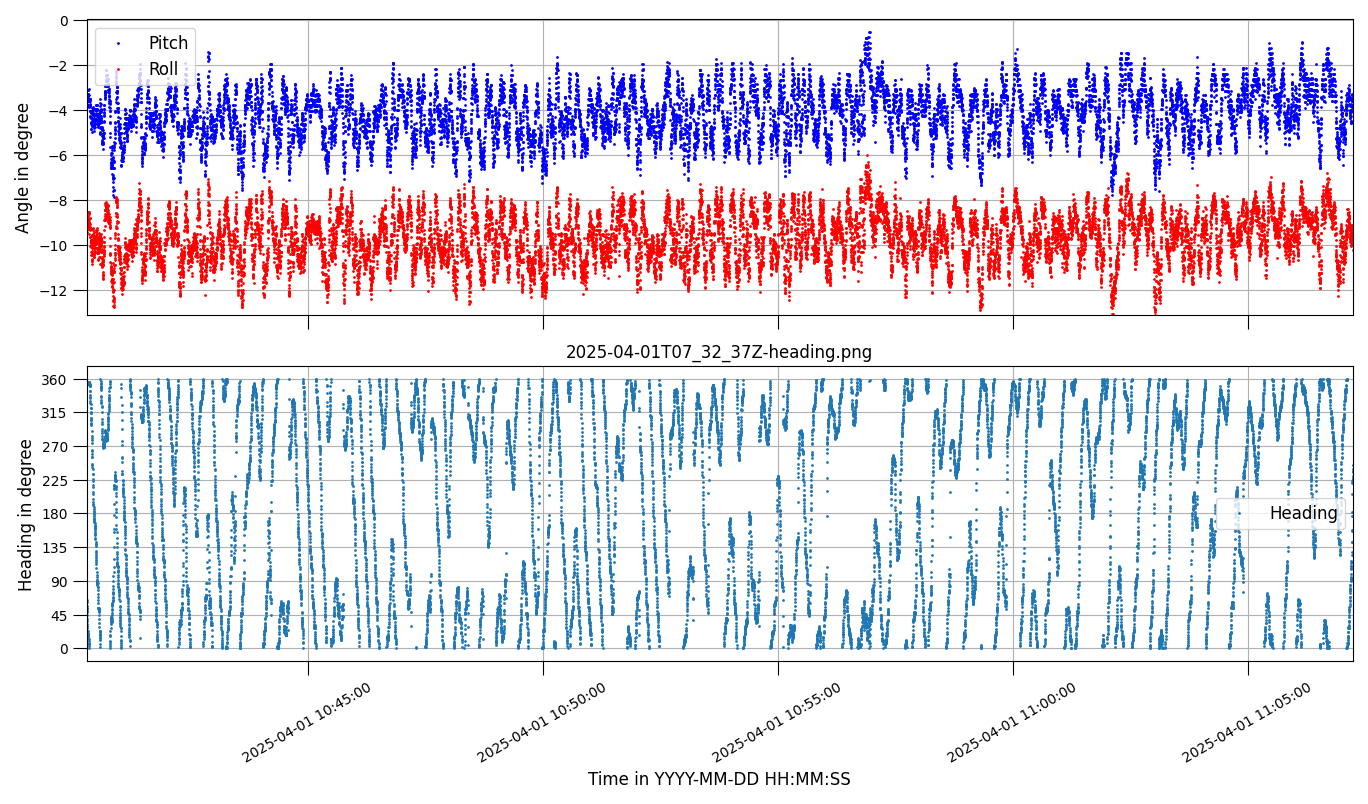
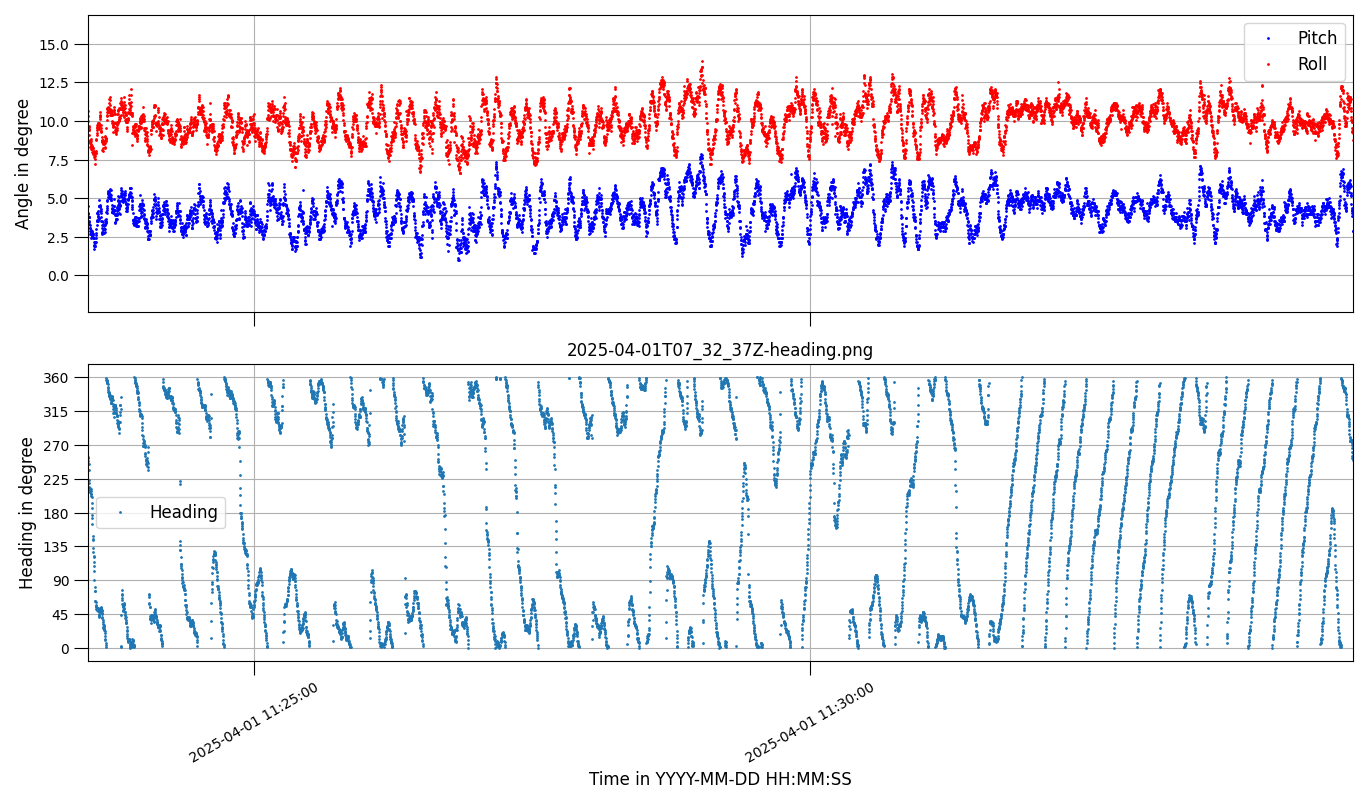
correct parameters to body frame, new plots

diff --git a/chapters/appendix.tex b/chapters/appendix.tex
@@ -6,18 +6,18 @@
          \makecell{$a^B$} & \makecell{1.02394} & \makecell{1.00341} & \makecell{1.03179} \\
          \makecell{$b^B$} & \makecell{1.08484} & \makecell{1.06898} & \makecell{1.07573} \\
          \makecell{$c^B$} & \makecell{1.18253} & \makecell{1.12627} & \makecell{1.16176} \\
-         \makecell{$x_0^B$} & \makecell{0.0344209} & \makecell{0.0131758} & \makecell{0.0269842} \\
-         \makecell{$y_0^B$} & \makecell{-0.22116} & \makecell{-0.212521} & \makecell{-0.219484} \\
+         \makecell{$x_0^B$} & \makecell{-0.0344209} & \makecell{-0.0131757} & \makecell{-0.0269844} \\
+         \makecell{$y_0^B$} & \makecell{0.22116} & \makecell{0.212521} & \makecell{0.219484} \\
          \makecell{$z_0^B$} & \makecell{-0.195463} & \makecell{-0.192554} & \makecell{-0.195859} \\
          \hline
          \makecell{$a^g$} & \makecell{0.969417} & \makecell{0.978286} & \makecell{0.97323} \\
          \makecell{$b^g$} & \makecell{0.959791} & \makecell{0.948732} & \makecell{0.957992} \\
          \makecell{$c^g$} & \makecell{0.964618} & \makecell{0.926156} & \makecell{0.953446} \\
-         \makecell{$x_0^g$} & \makecell{-0.00218403} & \makecell{0.00733717} & \makecell{0.00149607} \\
+         \makecell{$x_0^g$} & \makecell{-0.00218404} & \makecell{0.00733717} & \makecell{0.00149607} \\
          \makecell{$y_0^g$} & \makecell{-0.0149083} & \makecell{-0.0113024} & \makecell{-0.014287} \\
-         \makecell{$z_0^g$} & \makecell{0.0218019} & \makecell{0.0260466} & \makecell{0.0251443} \\
+         \makecell{$z_0^g$} & \makecell{-0.0218019} & \makecell{-0.0260466} & \makecell{-0.0251443} \\
     \end{tabular}
-    \caption{Coefficents determined from measurement on 11 April 2025.}
+    \caption{Coefficients determined from measurement on 11 April 2025.}
     \label{tab:app:coeff}
 \end{table}
 
@@ -27,10 +27,10 @@
              &   xa0  &   ya0  &   za0  &   aa   &   ba   & ca \\
          xa0 &  1     &        &        &        &        &    \\
          ya0 & -0.005 &  1     &        &        &        &    \\
-         za0 &  0.016 &  0.007 &  1     &        &        &    \\
-         aa  &  0.522 & -0.000 &  0.005 &  1     &        &    \\
-         ba  &  0.010 &  0.251 &  0.011 &  0.003 &  1     &    \\
-         ca  & -0.008 & -0.015 & -0.273 & -0.007 & -0.013 &  1 \\
+         za0 & -0.016 & -0.007 &  1     &        &        &    \\
+         aa  &  0.522 & -0.000 & -0.005 &  1     &        &    \\
+         ba  &  0.010 &  0.251 & -0.011 &  0.003 &  1     &    \\
+         ca  & -0.008 & -0.015 &  0.273 & -0.007 & -0.013 &  1 \\
     \end{tabular}
     \caption{Correlation matrix of Phase II Acc}
 \end{table}
@@ -41,10 +41,10 @@
              &   xm0  & ym0    &   zm0  &   am   &   bm   & cm \\
          xm0 &  1     &        &        &        &        &    \\
          ym0 &  0.096 &  1     &        &        &        &    \\
-         zm0 &  0.114 &  0.013 &  1     &        &        &    \\
-         am  & -0.457 & -0.055 & -0.105 &  1     &        &    \\
-         bm  &  0.180 & -0.212 & -0.045 & -0.212 &  1     &    \\
-         cm  &  0.229 &  0.065 &  0.282 & -0.252 & -0.093 & 1  \\
+         zm0 & -0.114 & -0.013 &  1     &        &        &    \\
+         am  &  0.457 &  0.055 & -0.105 &  1     &        &    \\
+         bm  & -0.180 &  0.212 & -0.045 & -0.212 &  1     &    \\
+         cm  & -0.229 & -0.065 &  0.282 & -0.252 & -0.093 & 1  \\
     \end{tabular}
     \caption{Correlation matrix of Phase II Mag}
 \end{table}
@@ -55,10 +55,10 @@
              &   xa0  &   ya0  &   za0  &   aa   &   ba   & ca \\
          xa0 &  1     &        &        &        &        &    \\
          ya0 &  0.030 &  1     &        &        &        &    \\
-         za0 &  0.093 &  0.017 &  1     &        &        &    \\
-         aa  & -0.246 & -0.004 &  0.047 &  1     &        &    \\
-         ba  & -0.021 & -0.034 & -0.055 & -0.229 &  1     &    \\
-         ca  & -0.017 &  0.053 &  0.280 & -0.098 & -0.195 &  1 \\
+         za0 & -0.093 & -0.017 &  1     &        &        &    \\
+         aa  & -0.246 & -0.004 & -0.047 &  1     &        &    \\
+         ba  & -0.021 & -0.034 &  0.055 & -0.229 &  1     &    \\
+         ca  & -0.017 &  0.053 & -0.280 & -0.098 & -0.195 &  1 \\
     \end{tabular}
     \caption{Correlation matrix of Phase III Acc}
     \label{tab:my_label}
@@ -70,10 +70,10 @@
              &   xm0  & ym0    &   zm0  &   am   &   bm   & cm \\
          xm0 &  1     &        &        &        &        &    \\
          ym0 &  0.053 &  1     &        &        &        &    \\
-         zm0 &  0.006 &  0.009 &  1     &        &        &    \\
-         am  &  0.266 &  0.015 & -0.033 &  1     &        &    \\
-         bm  & -0.013 & -0.073 &  0.014 & -0.234 &  1     &    \\
-         cm  & -0.017 & -0.046 & -0.222 & -0.185 & -0.203 & 1  \\
+         zm0 & -0.006 & -0.009 &  1     &        &        &    \\
+         am  & -0.266 & -0.015 & -0.033 &  1     &        &    \\
+         bm  &  0.013 &  0.073 &  0.014 & -0.234 &  1     &    \\
+         cm  &  0.017 &  0.046 & -0.222 & -0.185 & -0.203 & 1  \\
     \end{tabular}
     \caption{Correlation matrix of Phase III Mag}
 \end{table}
@@ -84,10 +84,10 @@
              &   xa0  &   ya0  &   za0  &   aa   &   ba   & ca \\
          xa0 &  1     &        &        &        &        &    \\
          ya0 & -0.001 &  1     &        &        &        &    \\
-         za0 &  0.067 &  0.004 &  1     &        &        &    \\
-         aa  &  0.283 & -0.008 &  0.049 &  1     &        &    \\
-         ba  & -0.029 &  0.206 &  0.012 & -0.058 &  1     &    \\
-         ca  & -0.053 & -0.008 & -0.127 & -0.065 & -0.046 &  1 \\
+         za0 & -0.067 & -0.004 &  1     &        &        &    \\
+         aa  &  0.283 & -0.008 & -0.049 &  1     &        &    \\
+         ba  & -0.029 &  0.206 & -0.012 & -0.058 &  1     &    \\
+         ca  & -0.053 & -0.008 &  0.127 & -0.065 & -0.046 &  1 \\
     \end{tabular}
     \caption{Correlation matrix of Phases II+III Acc}
 \end{table}
@@ -98,10 +98,10 @@
              &   xm0  & ym0    &   zm0  &   am   &   bm   & cm \\
          xm0 &  1     &        &        &        &        &    \\
          ym0 &  0.074 &  1     &        &        &        &    \\
-         zm0 &  0.057 &  0.002 &  1     &        &        &    \\
-         am  & -0.229 & -0.022 & -0.070 &  1     &        &    \\
-         bm  &  0.135 & -0.190 & -0.039 & -0.199 &  1     &    \\
-         cm  &  0.142 &  0.038 &  0.134 & -0.215 & -0.121 & 1  \\
+         zm0 & -0.057 & -0.002 &  1     &        &        &    \\
+         am  &  0.229 &  0.022 & -0.070 &  1     &        &    \\
+         bm  & -0.135 &  0.190 & -0.039 & -0.199 &  1     &    \\
+         cm  & -0.142 & -0.038 &  0.134 & -0.215 & -0.121 & 1  \\
     \end{tabular}
     \caption{Correlation matrix of Phases II+III Mag}
 \end{table}

diff --git a/chapters/04_calibration.tex b/chapters/04_calibration.tex
@@ -5,12 +5,12 @@ The unfiltered measurements of the magnetometer are presented in fig. \ref{fig:r
 
 \begin{figure}[H]
     \centering
-    \includegraphics[width=\linewidth]{images/04_results/raw_sphere_2025-04-11_x_z_axes.png}
+    \includegraphics[width=\linewidth]{images/04_results/raw_sphere_2025-04-11_y_z_axes.png}
     \caption{Components of the magnetometer of the calibration measurement on 11 April 2025 plotted in 3D-Space to form a distorted sphere.}
     \label{fig:res:raw_cali}
 \end{figure}
 
-In fig. \ref{fig:res:raw_cali_vectors} the three components of the magnetometer and accelerometer are plotted against their timestamp. This time is incorrect, as the \ac{FPGA} simply continues counting up from the last time it was connected to the internet. That the timestamp is incorrect does not matter for the sensor calibration, as only the time order of the vectors is relevant, rather than their absolute time. In the figure there can be made a clear distinction between three time intervals. The first interval is from the beginning of the measurement until 9:55. This is the time it took to leave the lab, take the elevator to the basement and go to the car park. A lot of vibration can be seen in the accelerometer and stray magnetic fields measured by the magnetometer.\\
+In fig. \ref{fig:res:raw_cali_vectors} there can be made a clear distinction between three time intervals. The first interval is from the beginning of the measurement until 9:55. This is the time it took to leave the lab, take the elevator to the basement and go to the car park. A lot of vibration can be seen in the accelerometer and stray magnetic fields measured by the magnetometer.\\
 The second phase is from 9:55 to around 10:21. After this time is when the random tumble begins. In phase II it can be seen how the magnetometer and accelerometer react to laying the device housing down in different orientations. When rotating the sensors, small shocks can be seen, such as at 10:06. These shocks are a different type of outlier in fig. \ref{fig:res:raw_cali}. They determine the thickness of the spheres mantle. The magnitude of the field randomly decreases significantly leading to measurement points near the centre of the sphere.
 
 \begin{figure}[H]
@@ -48,7 +48,7 @@ We will perform three approximations of the calibration parameters. The first on
 
 The final coefficients of the fit are presented in sec. \ref{sec:app:final_coefficients} in table \ref{tab:app:coeff} and the correlation matrices later in the same section. To determine the best set of parameters, the measurements are calibrated using all three sets and the residuals, i.e. the difference between calibrated vector and theoretical value, calculated. 
 
-The residuals (see page \pageref{eq:residuals}) with mean $\mu$ and standard deviation $\sigma$ are presented in fig. \ref{fig:res:residuals}. It can be seen, that the magnetometer calibration with the lowest mean deviation from the optimal value of $503.4$\,mGs is the calibration using phases II + III. The accelerometer calibration with the lowest deviation from the optimal value of 1$g$ is using only phase II. All sets of coefficients have around the same standard deviation which are about 50 to 100 times larger than the means. This can be explained by the extremely large errors in the later stages of the measurement series. Even though it is only a small part of the dataset, an error of 100\,\% is extremely large in comparison to a mean of e.g. 0.17\,\%.
+The residuals (for an explanation, see page \pageref{eq:residuals}) with mean $\mu$ and standard deviation $\sigma$ are presented in fig. \ref{fig:res:residuals}. It can be seen, that the magnetometer calibration with the lowest mean deviation from the optimal value of $503.4$\,mGs is the calibration using phases II + III. The accelerometer calibration with the lowest deviation from the optimal value of 1$g$ is using only phase II. All sets of coefficients have around the same standard deviation which are about 50 to 100 times larger than the means. This can be explained by the extremely large errors in the later stages of the measurement series. Even though it is only a small part of the dataset, an error of 100\,\% is extremely large in comparison to a mean of e.g. 0.17\,\%.
 \begin{figure}[H]
     \centering
     \includegraphics[width=\linewidth]{images/04_results/residuals_mag_acc_calibrations.png}

diff --git a/chapters/05_flight_data.tex b/chapters/05_flight_data.tex
@@ -2,7 +2,8 @@
 After having found the set of optimal calibration parameters and applying them to the flight data of \ac{SETH} junior, roll and pitch angles as well as the gondolas heading or orientation can be calculated. How this is done has been described in sec. \ref{sec:meth:determination_heading} on page \pageref{sec:meth:determination_heading}.
 
 The upper plot in fig. \ref{fig:res:flight_heading} presents the pitch angle in red and roll angle in blue plotted against the \ac{FPGA} time. The lower plot presents the gondolas heading against time. The angle of heading is given from 0 to 360 as it is written on a compass with $0^\circ\equiv\mathrm{North}$, $90^\circ\equiv\mathrm{East}$, etc.\\
-It can be seen that the gondola's swinging is strongest after launch and during ascent until it calms down at higher altitudes.
+It can be seen that the gondola's swinging is strongest after launch and during ascent until it calms down at higher altitudes.\\
+The timestamp on the x-axis has been corrected to show the correct time in UTC. The Raspberry Pi has an internal clock which is used during flight. If the time is not set it continues counting up from the time when it was last shut off. This resulted in a time difference of 3443\,s that the Pi was behind.
 
 \begin{figure}[H]
     \centering
